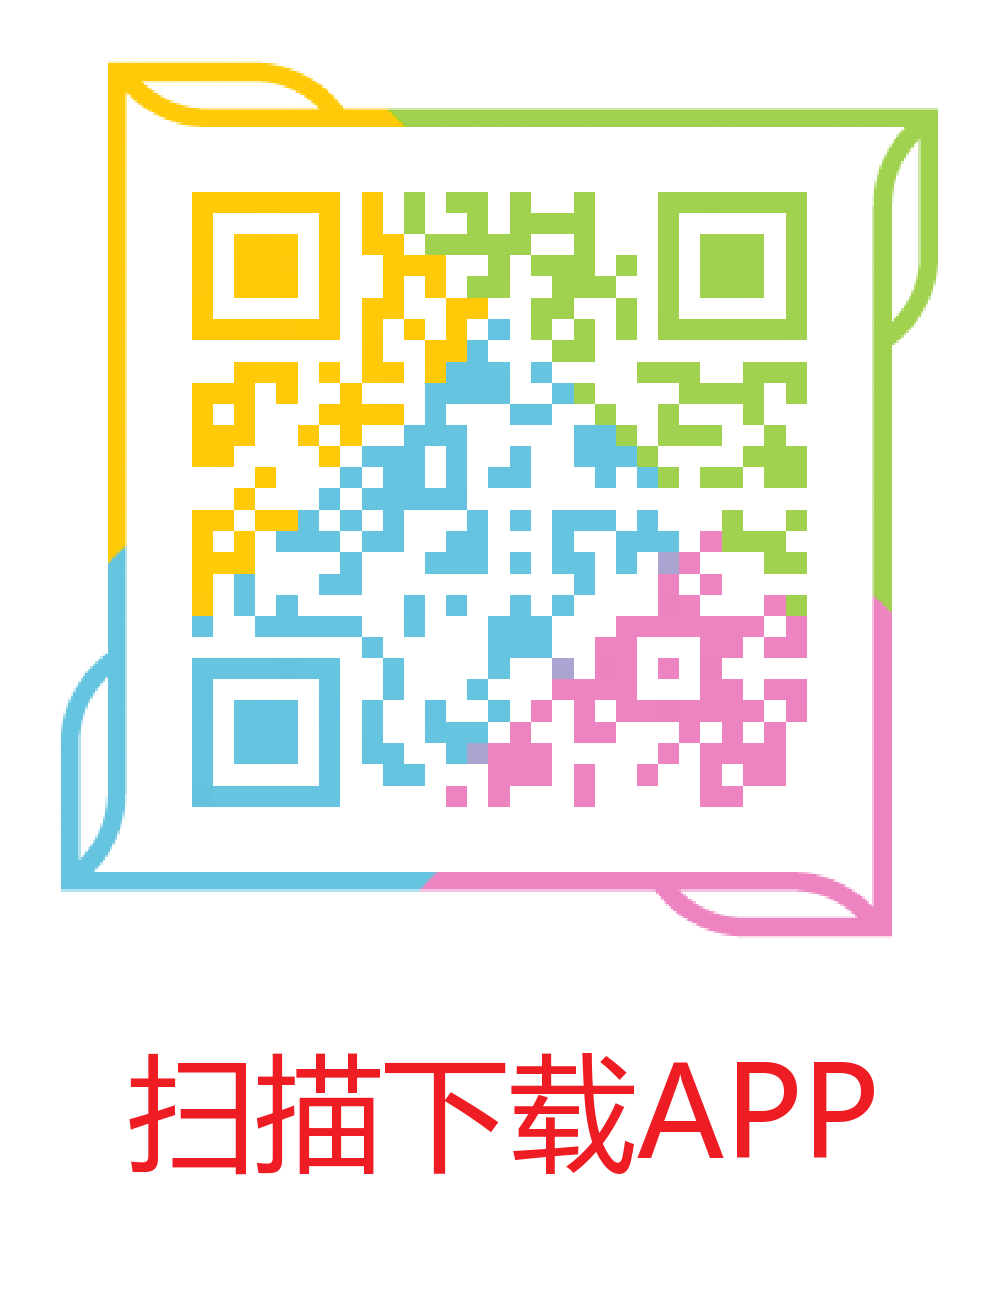
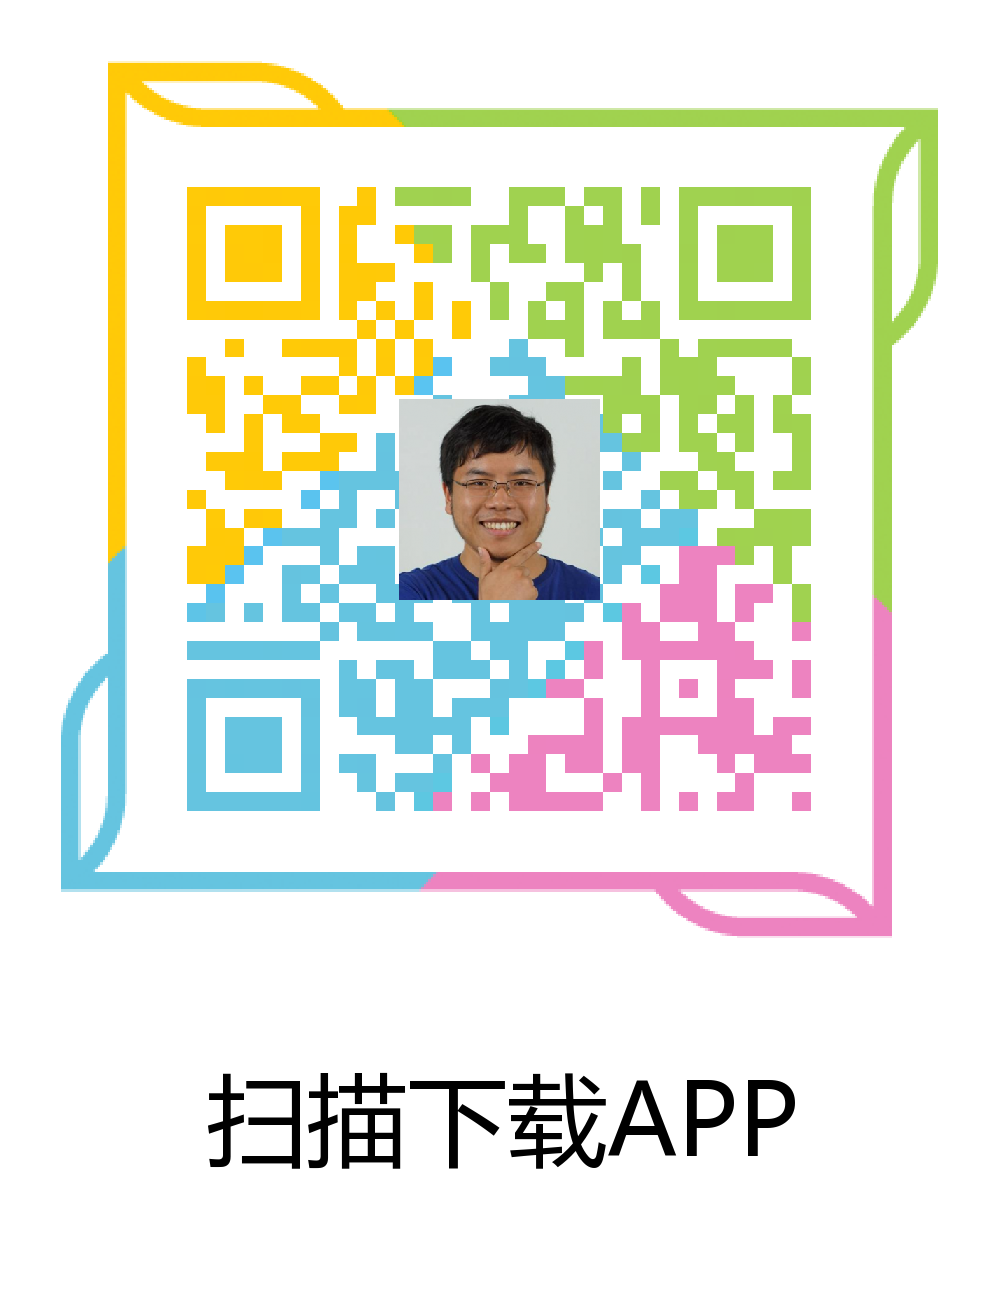
增加了一抹绿

Changed region(s): [[0.186, 0.1231, 0.837, 0.6462], [0.124, 0.8, 0.899, 0.9231]]

diff --git a/src/html/HOME.html b/src/html/HOME.html
@@ -25,20 +25,7 @@
         $(document).ready(function(){
             intoIndex();
             getHotJobs();
-            //固定页脚？
-//            $(function(){
-//                function footerPosition(){
-//                    $("footer").removeClass("fixed-bottom");
-//                    var contentHeight = document.body.scrollHeight,//网页正文全文高度
-//                        winHeight = window.innerHeight;//可视窗口高度，不包括浏览器顶部工具栏
-//                    if(!(contentHeight > winHeight)){
-//                        //当网页正文高度小于可视窗口高度时，为footer添加类fixed-bottom
-//                        $("footer").addClass("fixed-bottom");
-//                    }
-//                }
-//                footerPosition();
-//                $(window).resize(footerPosition);
-//            });
+
             $(".changeColor").mouseover(function(){
                 $(this).toggleClass("shadow")
             });
@@ -127,18 +114,21 @@
         <div class="picture">
             <a href="https://www.thoughtworks.com/" target="_blank" ><img src="../public/imgs/thoughtworklogo.png" style="max-width: 100%" ></a>
         </div>
-        <!--热门职位-->
-        <div class="Title">
-            <span class="TitleContent">热门职位</span>
-        </div>
-        <div style="margin-left: 13%; margin-right:13%;padding: 2% 1%">
-            <div class="row" id="hotJobs">
+        <div class="pictureFollowing">
+            <!--热门职位-->
+            <div class="Title">
+                <span class="TitleContent">热门职位</span>
+            </div>
+            <div style="margin-left: 13%; margin-right:13%;padding: 2% 1%">
+                <div class="row" id="hotJobs">
 
-            </div>
-            <div class="viewMore">
-                <a class="getmorejobs" style=" text-align: center;text-decoration: none">查看更多</a>
+                </div>
+                <div class="viewMore">
+                    <a class="getmorejobs" style=" text-align: center;text-decoration: none">查看更多</a>
+                </div>
             </div>
         </div>
+
 
 
         <!--热门公司-->

diff --git a/src/css/home.css b/src/css/home.css
@@ -115,17 +115,22 @@ a:-webkit-any-link{
 .picture{
     text-align: center;
 }
+.pictureFollowing{
+    background: #ffffff url(../public/imgs/一抹绿.jpg) repeat-x top;;
+}
 .Title{
     margin-left: 11%;
     margin-right: 11%;
     margin-top: 2%;
     margin-bottom: 1%;
+    padding-top: 5%;
     padding-bottom: 0.6%;
     font-size: 0;
     border-bottom: 1px solid #e8e8e8;
  }
 .TitleContent{
     font-size: 18px;
+    margin-top: 5%;
     padding-top: 2%;
     padding-bottom: 1%;
     border-bottom: 2px solid #333;

diff --git a/src/html/detail.html b/src/html/detail.html
@@ -128,7 +128,7 @@
                 </div>
             </div>
             <div class="QRcode">
-                <img src="../public/imgs/QRcode.jpg"  width="200px" height="260px">
+                <img src="../public/imgs/APP二维码.png"  width="200px" height="260px">
             </div>
         </div>
     </div>
